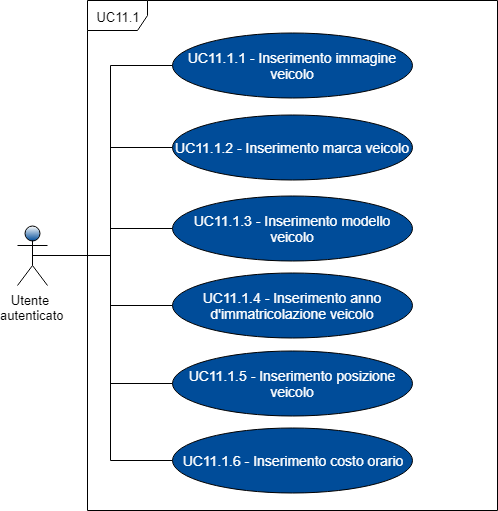
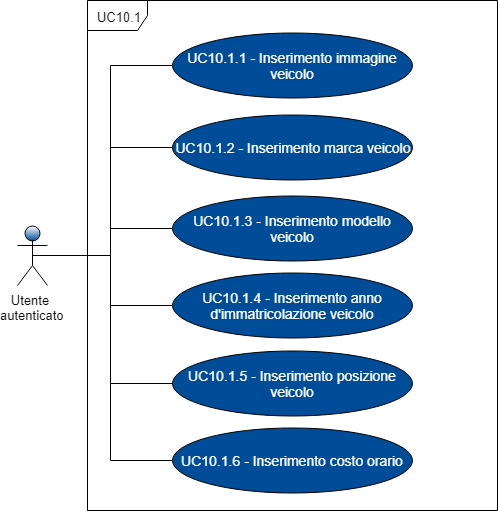
altre fix adr

diff --git a/RA/Esterni/Analisi_dei_requisiti/res/sections/UC/UC10-Gestione-veicoli.tex b/RA/Esterni/Analisi_dei_requisiti/res/sections/UC/UC10-Gestione-veicoli.tex
@@ -1,8 +1,8 @@
- \subsubsection{UC11 - Gestione veicoli}
+\subsubsection{UC10 - Gestione veicoli}
   \begin{figure}[H]
  	\includegraphics[width=10cm]{res/images/UC10Gestioneveicolo.png}
  	\centering
- 	\caption{UC11 - Gestione veicoli}
+ 	\caption{UC10 - Gestione veicoli}
  \end{figure}
  \begin{itemize}
  	\item \textbf{Attori Primari}: utente autenticato;
@@ -16,26 +16,26 @@
  	e ha la possibilità di aggiungere un veicolo o visualizzare i dettagli del veicolo;
  	\item \textbf{Scenario principale}: l'utente visualizza il parco macchine a disposizione e può decidere se:
  	\begin{itemize}
- 		\item aggiungere un veicolo [UC11.1];
- 		\item visualizzare i dettagli di un veicolo già aggiunto [UC11.2];
- 		\item rimuovere un veicolo [UC11.5];
- 		\item aggiungere una disponibilità al veicolo [UC11.6].
+ 		\item aggiungere un veicolo [UC10.1];
+ 		\item visualizzare i dettagli di un veicolo già aggiunto [UC10.2];
+ 		\item rimuovere un veicolo [UC10.5];
+ 		\item aggiungere una disponibilità al veicolo [UC10.6].
  	\end{itemize}
  	\item \textbf{Precondizione}: l'utente accede al fragment\glosp per la gestione dei veicoli;
  	\item \textbf{Postcondizione}: l'utente visualizza le informazioni relative ai propri veicoli, con le eventuali operazioni disponibili su ognuno di essi.
  \end{itemize}
- \subsubsection{UC11.1 - Aggiungi veicolo}
+ \subsubsection{UC10.1 - Aggiungi veicolo}
  \begin{itemize}
  	\item \textbf{Attori Primari}: utente autenticato;
  	\item \textbf{Descrizione}: l'utente può aggiungere un mezzo di trasporto al proprio parco macchine;
  	\item \textbf{Scenario principale}: l'utente aggiunge un veicolo compilando gli appositi campi obbligatori, ovvero:
  	\begin{itemize}
- 		\item inserimento immagine veicolo [UC11.1.1];
- 		\item inserimento marca veicolo [UC11.1.2];
- 		\item inserimento modello veicolo [UC11.1.3];
- 		\item inserimento anno d'immatricolazione veicolo [UC11.1.4];
- 		\item inserimento posizione veicolo [UC11.1.5];
- 		\item inserimento costo orario [UC11.1.6].
+ 		\item inserimento immagine veicolo [UC10.1.1];
+ 		\item inserimento marca veicolo [UC10.1.2];
+ 		\item inserimento modello veicolo [UC10.1.3];
+ 		\item inserimento anno d'immatricolazione veicolo [UC10.1.4];
+ 		\item inserimento posizione veicolo [UC10.1.5];
+ 		\item inserimento costo orario [UC10.1.6].
  	\end{itemize}
  	e successivamente salverà il nuovo veicolo confermando i campi appena inseriti;
  	\item \textbf{Precondizione}: l'utente ha inserito correttamente tutti i campi necessari;
@@ -44,9 +44,9 @@
 \begin{figure}[H]
 	\includegraphics[width=10cm]{res/images/UC10-1Aggiungiveicolo.png}
 	\centering
-	\caption{UC11.1 - Aggiungi veicolo}
+	\caption{UC10.1 - Aggiungi veicolo}
 \end{figure}
-\subsubsection{UC11.1.1 - Inserimento immagine veicolo}
+\subsubsection{UC10.1.1 - Inserimento immagine veicolo}
 \begin{itemize}
 	\item \textbf{Attori Primari}: utente autenticato;
 	\item \textbf{Descrizione}: al fine di portare a termine il processo di inserimento di un nuovo veicolo l'utente deve inserire un'immagine del proprio mezzo, campo ritenuto obbligatorio; 
@@ -54,7 +54,7 @@
 	\item \textbf{Precondizione}: l'applicazione ha reso disponibile il bottone per l'inserimento dell'immagine del veicolo;
 	\item \textbf{Postcondizione}: l'utente ha inserito correttamente l'immagine del veicolo.
 \end{itemize}
-\subsubsection{UC11.1.2 - Inserimento marca veicolo}
+\subsubsection{UC10.1.2 - Inserimento marca veicolo}
 \begin{itemize}
 	\item \textbf{Attori Primari}: utente autenticato;
 	\item \textbf{Descrizione}: al fine di portare a termine il processo di inserimento di un nuovo veicolo l'utente deve inserire la marca, campo ritenuto obbligatorio;
@@ -62,7 +62,7 @@
 	\item \textbf{Precondizione}: l'applicazione ha reso disponibile il campo per l'inserimento della marca del veicolo;
 	\item \textbf{Postcondizione}: l'utente ha compilato il campo con la marca.	
 \end{itemize}
-\subsubsection{UC11.1.3 - Inserimento modello veicolo}
+\subsubsection{UC10.1.3 - Inserimento modello veicolo}
 \begin{itemize}
 	\item \textbf{Attori Primari}: utente autenticato;
 	\item \textbf{Descrizione}: al fine di portare a termine il processo di inserimento di un nuovo veicolo l'utente deve inserire il modello, campo ritenuto obbligatorio;
@@ -70,7 +70,7 @@
 	\item \textbf{Precondizione}: l'applicazione ha reso disponibile il campo per l'inserimento il modello del veicolo;
 	\item \textbf{Postcondizione}: l'utente ha compilato il campo con il modello.	
 \end{itemize}
-\subsubsection{UC11.1.4 - Inserimento anno d'immatricolazione veicolo}
+\subsubsection{UC10.1.4 - Inserimento anno d'immatricolazione veicolo}
 \begin{itemize}
 	\item \textbf{Attori Primari}: utente autenticato;
 	\item \textbf{Descrizione}: al fine di portare a termine il processo di inserimento di un nuovo veicolo l'utente deve inserire l'anno di immatricolazione, campo ritenuto obbligatorio;
@@ -78,7 +78,7 @@
 	\item \textbf{Precondizione}: l'applicazione ha reso disponibile il campo per l'inserimento dell'anno d'immatricolazione del veicolo;
 	\item \textbf{Postcondizione}: l'utente ha compilato il campo con l'anno d'immatricolazione.	
 \end{itemize}
-\subsubsection{UC11.1.5 - Inserimento posizione veicolo}
+\subsubsection{UC10.1.5 - Inserimento posizione veicolo}
 \begin{itemize}
 	\item \textbf{Attori Primari}: utente autenticato;
 	\item \textbf{Descrizione}: al fine di portare a termine il processo di inserimento di un nuovo veicolo l'utente deve inserire la posizione del proprio mezzo, campo ritenuto obbligatorio;
@@ -86,7 +86,7 @@
 	\item \textbf{Precondizione}: l'applicazione ha reso disponibile il campo per l'inserimento della posizione del veicolo;
 	\item \textbf{Postcondizione}: l'utente ha compilato il campo con la posizione del veicolo.	
 \end{itemize}
-\subsubsection{UC11.1.6 - Inserimento costo orario}
+\subsubsection{UC10.1.6 - Inserimento costo orario}
 \begin{itemize}
 	\item \textbf{Attori Primari}: utente autenticato;
 	\item \textbf{Descrizione}: al fine di portare a termine il processo di inserimento di un nuovo veicolo l'utente deve inserire il costo orario in euro del proprio mezzo, campo ritenuto obbligatorio;
@@ -94,7 +94,7 @@
 	\item \textbf{Precondizione}: l'applicazione ha reso disponibile il campo per l'inserimento del costo orario in euro;
 	\item \textbf{Postcondizione}: l'utente ha compilato il campo con il costo orario in euro.	
 \end{itemize}
-\subsubsection{UC11.2 - Visualizza dettagli veicolo}
+\subsubsection{UC10.2 - Visualizza dettagli veicolo}
 \begin{itemize}
 	\item \textbf{Attori Primari}: utente autenticato;
 	\item \textbf{Descrizione}: l'utente autenticato, per ogni veicolo, può visualizzare in dettaglio le seguenti informazioni:
@@ -107,9 +107,9 @@
 	\end{itemize}
 	e ha la possibilità di:
 	\begin{itemize}
-		\item visualizzare le disponibilità del veicolo [UC11.3];
-		\item visualizzare le statistiche del veicolo[UC11.4];
-		\item rimuoverlo [UC11.5].
+		\item visualizzare le disponibilità del veicolo [UC10.3];
+		\item visualizzare le statistiche del veicolo[UC10.4];
+		\item rimuoverlo [UC10.5].
 	\end{itemize}
 	\item \textbf{Scenario principale}: l'utente visualizza i dati di dettaglio del veicolo;
 	\item \textbf{Precondizione}: l'utente autenticato visualizza i dettagli del veicolo;
@@ -118,9 +118,9 @@
 \begin{figure}[H]
 	\includegraphics[width=10cm]{res/images/UC11Dettagli.png}
 	\centering
-	\caption{UC11.2 - Visualizza dettagli veicolo}
+	\caption{UC10.2 - Visualizza dettagli veicolo}
 \end{figure}
-\subsubsection{UC11.3 - Visualizza disponibilità}
+\subsubsection{UC10.3 - Visualizza disponibilità}
 \begin{itemize}
 	\item \textbf{Attori Primari}: utente autenticato;
 	\item \textbf{Descrizione}: l'utente ha una panoramica delle disponibilità fino ad ora aggiunte, per ognuna di queste viene visualizzata:
@@ -128,12 +128,12 @@
 		\item la data;
 		\item la fascia oraria;
 	\end{itemize} 
-	e ha la possibilità di aggiungere una disponibilità [UC11.6];
+	e ha la possibilità di aggiungere una disponibilità [UC10.6];
 	\item \textbf{Scenario principale}: l'utente visualizza le disponibilità da lui aggiunte e può inserirne delle altre attraverso l'apposito pulsante;
 	\item \textbf{Precondizione}: l'utente entra nella visualizzazione delle disponibilità del veicolo selezionato;
 	\item \textbf{Postcondizione}: l'utente visualizza tutte le disponibilità del veicolo inserite. 
 \end{itemize}
-\subsubsection{UC11.4 - Visualizza statistiche}
+\subsubsection{UC10.4 - Visualizza statistiche}
 \begin{itemize}
 	\item \textbf{Attori Primari}: utente autenticato;
 	\item \textbf{Descrizione}: l'utente ha una panoramica delle statistiche del proprio veicolo con grafici o dati che rappresentano come e quanto viene utilizzato un suo mezzo rispetto ad un altro e poter scegliere se tenere o aggiungere il veicolo. Si visualizzano i seguenti valori:
@@ -146,7 +146,7 @@
 	\item \textbf{Precondizione}: l'utente entra nella visualizzazione delle statistiche del veicolo selezionato;
 	\item \textbf{Postcondizione}: l'utente visualizza l'andamento delle statistiche del veicolo. 
 \end{itemize}
-\subsubsection{UC11.5 - Rimuovi veicolo}
+\subsubsection{UC10.5 - Rimuovi veicolo}
 \begin{itemize}
 	\item \textbf{Attori Primari}: utente autenticato;
 	\item \textbf{Descrizione}: l'utente può rimuovere un mezzo di trasporto dal proprio parco macchine;
@@ -154,34 +154,34 @@
 	\item \textbf{Precondizione}: l'applicazione mostra all'utente i propri veicoli e ne permette la selezione;
 	\item \textbf{Postcondizione}: il veicolo selezionato viene rimosso dal parco macchine.
 \end{itemize}
-\subsubsection{UC11.6 - Aggiungi disponibilità}
+\subsubsection{UC10.6 - Aggiungi disponibilità}
 \begin{figure}[H]
 	\includegraphics[width=11cm]{res/images/UC11Aggiungi.png}
 	\centering
-	\caption{UC11.6 - Aggiungi disponibilità}
+	\caption{UC10.6 - Aggiungi disponibilità}
 \end{figure}
 \begin{itemize}
 	\item \textbf{Attori Primari}: utente autenticato;
 	\item \textbf{Descrizione}: l'utente può inserire la disponibilità in cui mette a disposizione il proprio veicolo inserendo data, ora ed eventuale ripetizione delle stesse in giorni differenti;
 	\item \textbf{Scenario principale}: l'utente, dopo aver visualizzato la lista delle disponibilità di un suo veicolo, decide di aggiungere un ulteriore disponibilità e viene portato nella sezione "singola" inserendo:
 	\begin{itemize}
-		\item data prenotazione [UC11.6.1];
-		\item ora di inizio [UC11.6.2];
-		\item ora di fine [UC11.6.3].
+		\item data prenotazione [UC10.6.1];
+		\item ora di inizio [UC10.6.2];
+		\item ora di fine [UC10.6.3].
 	\end{itemize}
 	e successivamente confermando l'aggiunta della disponibilità, l'utente viene rimandato nell'area di \textit{Gestione veicolo};
 	\item \textbf{Scenario alternativo}: l'utente, dopo aver visualizzato la lista delle disponibilità di un suo veicolo, decide di aggiungere un ulteriore disponibilità, cambia sezione ed entra in "ripetuta" inserendo:
 	\begin{itemize}
-		\item ora di inizio [11.6.2];
-		\item ora di fine [11.6.3];
-		\item ripetizione giorni settimana [11.6.4];
-		\item ripetizione per quanto tempo [11.6.5].
+		\item ora di inizio [10.6.2];
+		\item ora di fine [10.6.3];
+		\item ripetizione giorni settimana [10.6.4];
+		\item ripetizione per quanto tempo [10.6.5].
 	\end{itemize}
 	e successivamente confermando l'aggiunta della disponibilità, l'utente viene rimandato nell'area di \textit{Gestione veicolo};
 	\item \textbf{Precondizione}: l'applicazione mostra all'utente la lista delle disponibilità fino ad ora aggiunte e ne permette ulteriore inserimento;
 	\item \textbf{Postcondizione}: viene aggiunta la disponibilità al veicolo selezionato.
 \end{itemize}
-\subsubsection{UC11.6.1 - Inserimento data prenotazione}
+\subsubsection{UC10.6.1 - Inserimento data prenotazione}
 \begin{itemize}
 	\item \textbf{Attori Primari}: utente autenticato;
 	\item \textbf{Descrizione}: al fine di portare a termine il processo di aggiunta della disponibilità al veicolo, l'utente deve inserire la data di prenotazione. Visualizzerà un calendario dove potrà selezionare un giorno del mese che preferisce;
@@ -189,7 +189,7 @@
 	\item \textbf{Precondizione}: l'applicazione ha reso disponibile il campo per l'inserimento della data di prenotazione;
 	\item \textbf{Postcondizione}: l'utente ha compilato il campo con la data di prenotazione.	
 \end{itemize}
-\subsubsection{UC11.6.2 - Inserimento ora di inizio}
+\subsubsection{UC10.6.2 - Inserimento ora di inizio}
 \begin{itemize}
 	\item \textbf{Attori Primari}: utente autenticato;
 	\item \textbf{Descrizione}: al fine di portare a termine il processo di aggiunta della disponibilità al veicolo, l'utente deve inserire l'ora di inizio in cui un usufruente può prenotare l'auto. L'orario viene mostrato in fasce orarie da 15 minuti;
@@ -197,7 +197,7 @@
 	\item \textbf{Precondizione}: l'applicazione ha reso disponibile il campo per l'inserimento dell'ora di inizio;
 	\item \textbf{Postcondizione}: l'utente ha compilato il campo con l'ora di inizio.	
 \end{itemize}
-\subsubsection{UC11.6.3 - Inserimento ora di fine}
+\subsubsection{UC10.6.3 - Inserimento ora di fine}
 \begin{itemize}
 	\item \textbf{Attori Primari}: utente autenticato;
 	\item \textbf{Descrizione}: al fine di portare a termine il processo di aggiunta della disponibilità al veicolo, l'utente deve inserire l'ora di fine in cui un usufruente può prenotare l'auto. L'orario viene mostrato in fasce orarie da 15 minuti;
@@ -205,7 +205,7 @@
 	\item \textbf{Precondizione}: l'applicazione ha reso disponibile il campo per l'inserimento dell'ora di fine;
 	\item \textbf{Postcondizione}: l'utente ha compilato il campo con l'ora di fine.	
 \end{itemize}
-\subsubsection{UC11.6.4 - Inserimento ripetizione giorni della settimana}
+\subsubsection{UC10.6.4 - Inserimento ripetizione giorni della settimana}
 \begin{itemize}
 	\item \textbf{Attori Primari}: utente autenticato;
 	\item \textbf{Descrizione}: al fine di portare a termine il processo di aggiunta della disponibilità al veicolo, l'utente deve inserire i giorni della settimana in cui vuole che il veicolo sia disponibile;
@@ -213,7 +213,7 @@
 	\item \textbf{Precondizione}: l'applicazione ha reso disponibile il campo per l'inserimento dei giorni della settimana in cui rendere disponibile il veicolo;
 	\item \textbf{Postcondizione}: l'utente ha compilato il campo con i giorni della settimana in cui vuole ripetere la disponibilità.	
 \end{itemize}
-\subsubsection{UC11.6.5 - Inserimento ripetizione per tempo}
+\subsubsection{UC10.6.5 - Inserimento ripetizione per tempo}
 \begin{itemize}
 	\item \textbf{Attori Primari}: utente autenticato;
 	\item \textbf{Descrizione}: al fine di portare a termine il processo di aggiunta della disponibilità al veicolo, l'utente deve inserire la quantità di tempo in cui la disponibilità del veicolo deve essere ripetuta (per esempio: una settimana, due settimane, un mese, etc);

diff --git a/RA/Esterni/Analisi_dei_requisiti/res/sections/casi_duso.tex b/RA/Esterni/Analisi_dei_requisiti/res/sections/casi_duso.tex
@@ -25,19 +25,17 @@ In questa sezione vi sono elencati tutti i casi d'uso individuati. Ogni caso d'u
 Di seguito sono riportati tutti i casi d'uso che coinvolgono come attore primario l'utente generico, l'utente non autenticato, l'utente autenticato.
 \input{res/sections/UC/UC1-5-GuidaRegistrazione.tex}
 \input{res/sections/UC/UC6-9-LoginLogout.tex}
-\input{res/sections/UC/UC10-Home.tex}
-\input{res/sections/UC/UC11-Gestione-veicoli.tex}
-\input{res/sections/UC/UC12-Gestione-prenotazione.tex}
+\input{res/sections/UC/UC10-Gestione-veicoli.tex}
+\input{res/sections/UC/UC11-Gestione-prenotazione.tex}
 \newpage
-\input{res/sections/UC/UC13-Effettua-prenotazione.tex}
-\input{res/sections/UC/UC14-StoricoPrenotazioni.tex}
+\input{res/sections/UC/UC12-Effettua-prenotazione.tex}
+\input{res/sections/UC/UC13-StoricoPrenotazioni.tex}
 \newpage
-\input{res/sections/UC/UC15-16-GestioneProfilo.tex}
-\input{res/sections/UC/UC17-18-ProgressBar.tex}
-\input{res/sections/UC/UC19-Gioca.tex}
-\input{res/sections/UC/UC20-21-Milestone-unlock.tex}
-\input{res/sections/UC/UC22-23-LuckySpin.tex}
-\input{res/sections/UC/UC24-Leaderboard.tex}
-\input{res/sections/UC/UC25-CodiceAmico.tex}
-\input{res/sections/UC/UC26-27DailyReward.tex}
-\input{res/sections/UC/UC28-29GarageVeicolo.tex}
+\input{res/sections/UC/UC14-15-GestioneProfilo.tex}
+\input{res/sections/UC/UC16-Gioca.tex}
+\input{res/sections/UC/UC17-Milestone-unlock.tex}
+\input{res/sections/UC/UC18-LuckySpin.tex}
+\input{res/sections/UC/UC19-Leaderboard.tex}
+\input{res/sections/UC/UC20-CodiceAmico.tex}
+\input{res/sections/UC/UC21-DailyReward.tex}
+\input{res/sections/UC/UC22-GarageVeicolo.tex}
